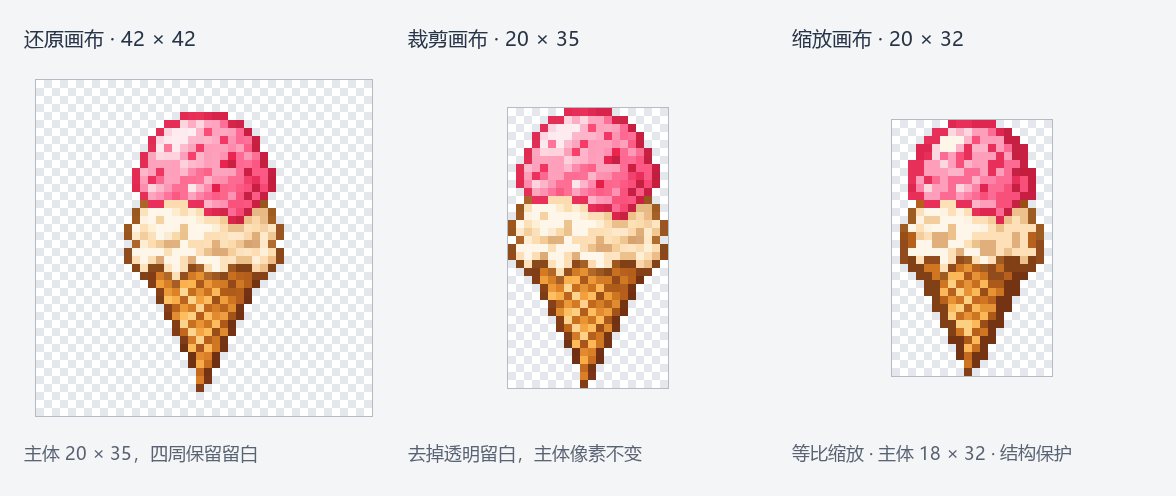
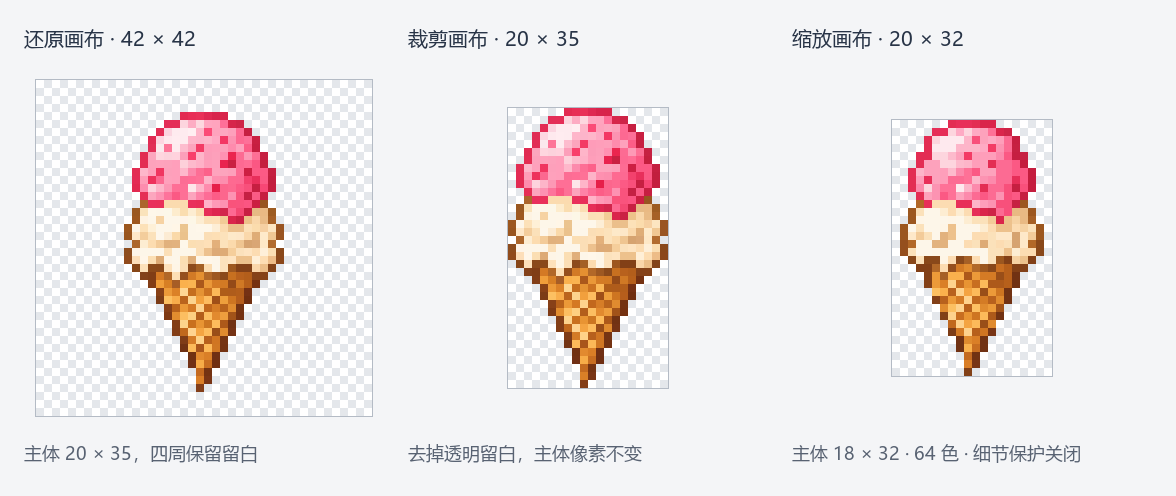
冰淇淋缩放示例改为 64 色并关闭细节保护

diff --git a/scripts/create_readme_examples.py b/scripts/create_readme_examples.py
@@ -94,7 +94,7 @@ def main():
     comparison('ice-cream-layout-comparison.png', [
         (pictures['ice-cream-grid'], '还原画布 · 42 × 42', '主体 20 × 35，四周保留留白'),
         (pictures['ice-cream-crop'], '裁剪画布 · 20 × 35', '去掉透明留白，主体像素不变'),
-        (pictures['ice-cream-fit'], '缩放画布 · 20 × 32', '等比缩放 · 主体 18 × 32 · 结构保护'),
+        (pictures['ice-cream-fit'], '缩放画布 · 20 × 32', '主体 18 × 32 · 64 色 · 细节保护关闭'),
     ], zoom=8)
     comparison('enchanting-table-comparison.png', [
         (pictures['enchanting-table-grid'], '自动识别 · 30 × 30 网格', 'AI 原图：1254 × 1254'),

diff --git a/README.md b/README.md
@@ -20,7 +20,7 @@
 ![冰淇淋自动识别与网格化](docs/assets/ice-cream-grid-comparison.png)
 
 冰淇淋主体为 **20×35**：裁剪画布可去掉透明留白、保留主体像素；
-使用结构保护等比例缩放到 **20×32** 画布时，主体为 **18×32**。
+使用目标像素算法（64 色、细节保护关闭）等比例缩放到 **20×32** 画布时，主体为 **18×32**。
 
 ![冰淇淋裁剪画布与主体缩放](docs/assets/ice-cream-layout-comparison.png)
 
